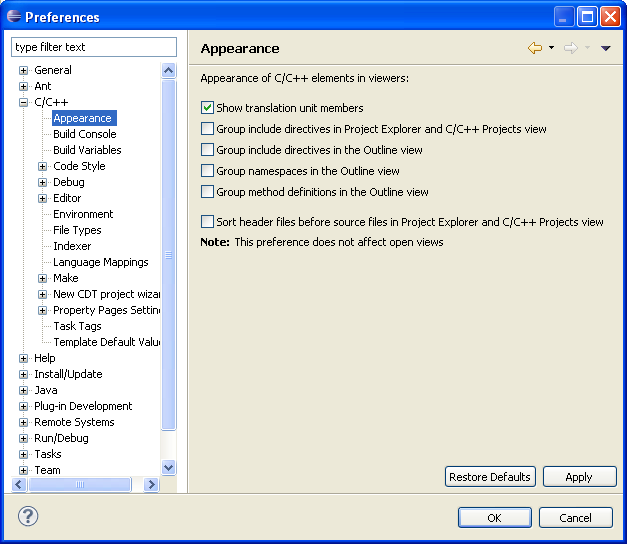
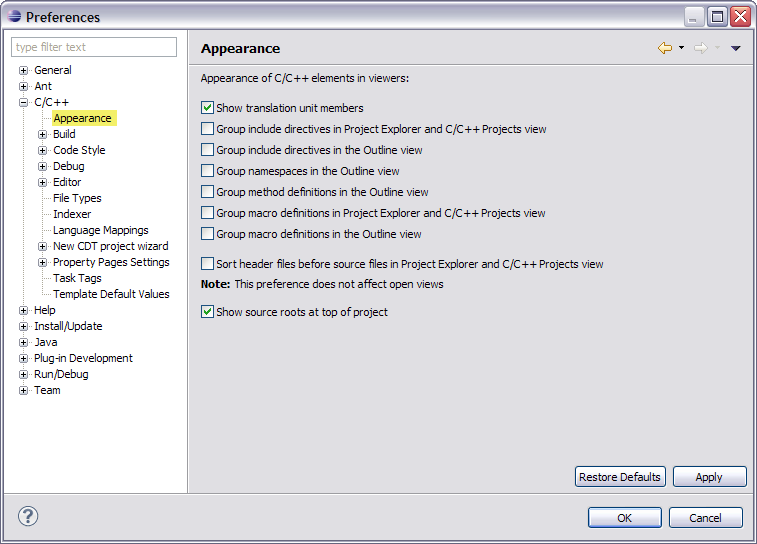
Added 3 missing options and revised image for Appearance pref panel

Changed region(s): [[0.0, 0.0, 1.0, 1.0], [0.7576, 0.2188, 0.8788, 0.25], [0.8788, 0.4062, 0.9091, 0.4375]]

diff --git a/doc/org.eclipse.cdt.doc.user/reference/cdt_u_appearance_pref.htm b/doc/org.eclipse.cdt.doc.user/reference/cdt_u_appearance_pref.htm
@@ -6,31 +6,36 @@
 <meta http-equiv="Content-Type" content="text/html; charset=UTF-8">
 <title>Appearance preferences</title>
 <link rel="stylesheet" type="text/css" href="../help.css">
+<script language="JavaScript" src="PLUGINS_ROOT/org.eclipse.help/livehelp.js"></script>
 </head>
 
 <body>
 
 <h1>Appearance preferences</h1>
 
-<p>Use the <strong>Appearance</strong> panel of the Preferences window to customize the appearance of C elements in the viewers.</p>
+<p>Use the <img src="../images/command_link.png" border="0" alt="" /> <a class="command-link" href='javascript:executeCommand("org.eclipse.ui.window.preferences(preferencePageId=org.eclipse.cdt.ui.preferences.AppearancePreferencePage)")'>Appearance</a> panel of the <b>Preferences</b> window to customize the appearance of C elements in the viewers. Click <b>Window > Preferences > C/C++ > Appearance</b> to open.</p>
 <p><img src="../images/view_appearance_prefs.png" alt="Appearance Preference"></p>
 
-<table width="700px" cellpadding="5" cellspacing="0" border="1" >
+<table width="700px" cellpadding="4" cellspacing="0" border="1" fgcolor="EEE" >
 	<caption>
 	<strong>Appearance Options</strong>
 	</caption>
 	<colgroup>
-		<col width="30%" valign="top" >
-		<col width="70%" valign="top" >
+		<col width="35%" valign="top" >
+		<col width="65%" valign="top" >
 	</colgroup>
 	<tbody>
+		<tr align="center">
+			<td width="35%"><strong>Option</strong></td>
+			<td width="65%"><strong>Description</strong></td>
+		</tr>
 		<tr>
-			<td width="241" valign="top"><strong>Show translation unit members </strong></td>
-			<td width="433" valign="top">Select this option to show translation unit members in Project Explorer and C/C++ Projects view. </td>
+			<td width="35%" valign="top"><strong>Show translation unit members </strong></td>
+			<td width="65%" valign="top">Select this option to show translation unit members in the Project Explorer and C/C++ Projects views. </td>
 		</tr>
 		<tr>
 			<td valign="top"><strong>Group include directives in Project Explorer and C/C++ Projects view </strong></td>
-			<td valign="top">Select this option to group include directives in Project Explorer and C/C++ Projects view. </td>
+			<td valign="top">Select this option to group include directives in the Project Explorer and C/C++ Projects views. </td>
 		</tr>
 		<tr>
 			<td valign="top"><strong>Group include directives in the Outline view </strong></td>
@@ -45,8 +50,20 @@
 			<td valign="top">Select this option to group method definitions for the same type in the Outline view. </td>
 		</tr>
 		<tr>
+			<td valign="top"><strong>Group macro definitions in the Project Explorer and C/C++ Project views.</strong></td>
+			<td valign="top">Select this option to group method definitions for the same type in the Project Explorer and C/C++ Project views.</td>
+		</tr>
+		<tr>
+			<td valign="top"><strong>Group macro definitions in the Outline view.</strong></td>
+			<td valign="top">Select this option to group macro definitions in the Outline view. </td>
+		</tr>
+		<tr>
 			<td valign="top"><strong>Sort header files before source files in Project Explorer and C/C++ Projects view </strong></td>
-			<td valign="top">Select this option to separate header and source files in Project Explorer and C/C++ Projects view. </td>
+			<td valign="top">Select this option to separate header and source files in the Project Explorer and C/C++ Projects views. </td>
+		</tr>
+		<tr>
+			<td valign="top"><strong>Show source roots at top of project</strong></td>
+			<td valign="top">Select this option to group source roots at the top of project views. </td>
 		</tr>
 	</tbody>
 </table>
